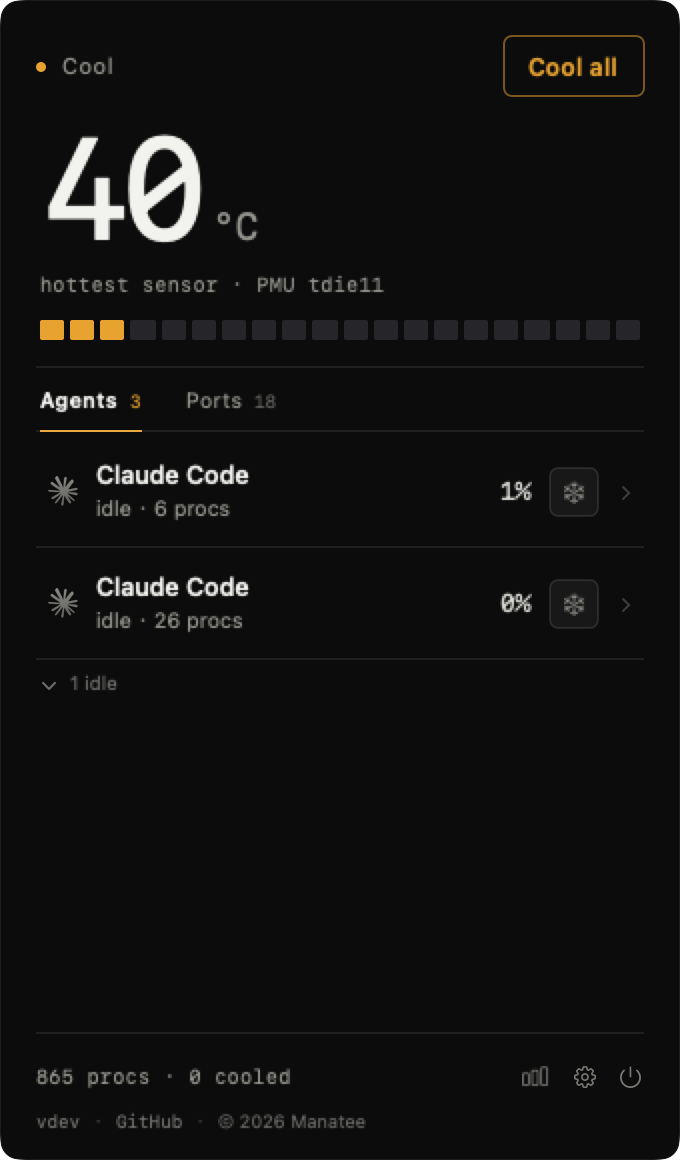
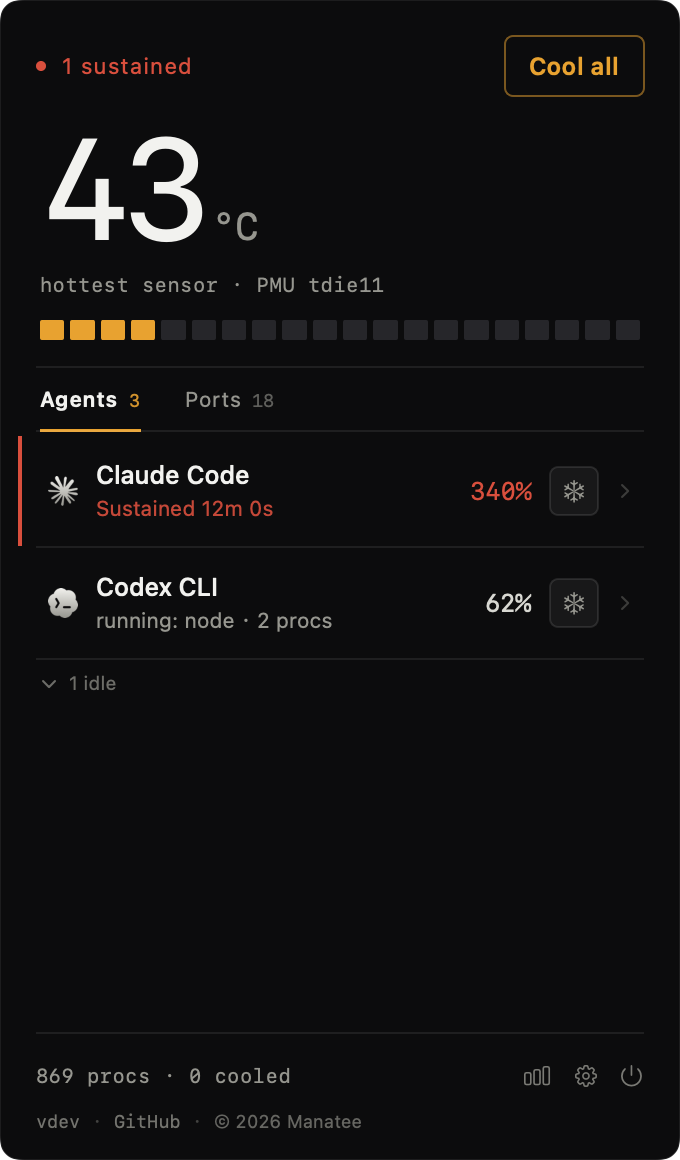
feat(render): --demo 状态注入，官网/README 用图与文案对齐（单会话 340% / 持续 12 分钟）

diff --git a/Sources/Manatee/main.swift b/Sources/Manatee/main.swift
@@ -153,6 +153,28 @@ if argv.contains("--render") {
     if argv.contains("--cooled"), let first = model.sessions.first {
         model.cooled = Set(first.pids)
     }
+    // 官网/README 用图：造一个「一个会话 340%、已连续满载 12 分钟」的状态，
+    // 和落地页第二屏的对照文案必须一致，别用两条不同的假数据
+    if argv.contains("--demo") {
+        model.temperature = 43
+        if model.sensorName.isEmpty { model.sensorName = "PMU tdie12" }
+        let seed = model.sessions.first
+        let def = seed?.def ?? AgentRegistry.all.first!
+        var hot = seed ?? AgentSession(def: def, rootPid: 77245, cpuPercent: 340, pids: [77245],
+                                       busyChildren: [("node", 340)], cooled: false, hasOtherUid: false)
+        hot.cpuPercent = 340
+        hot.busyChildren = [("node", 340)]
+        hot.pids = (0..<14).map { pid_t(77245 + $0) }
+        hot.cooled = false
+        let idle = AgentSession(def: def, rootPid: 6086, cpuPercent: 0, pids: [6086],
+                                busyChildren: [], cooled: false, hasOtherUid: false)
+        let codex = AgentSession(def: AgentRegistry.all.first { $0.id == "codex" } ?? def,
+                                 rootPid: 78120, cpuPercent: 62, pids: [78120, 78121],
+                                 busyChildren: [("node", 62)], cooled: false, hasOtherUid: false)
+        model.sessions = [hot, codex, idle]
+        model.alerts = [hot.rootPid: 720]
+        model.processCount = 869
+    }
     let out = (argv.first(where: { $0.hasPrefix("--out=") })?.dropFirst(6)).map(String.init)
         ?? "/Users/gaogao/Documents/Hermes/manatee/poc-panel.png"
     let renderSettings = argv.contains("--settings")
